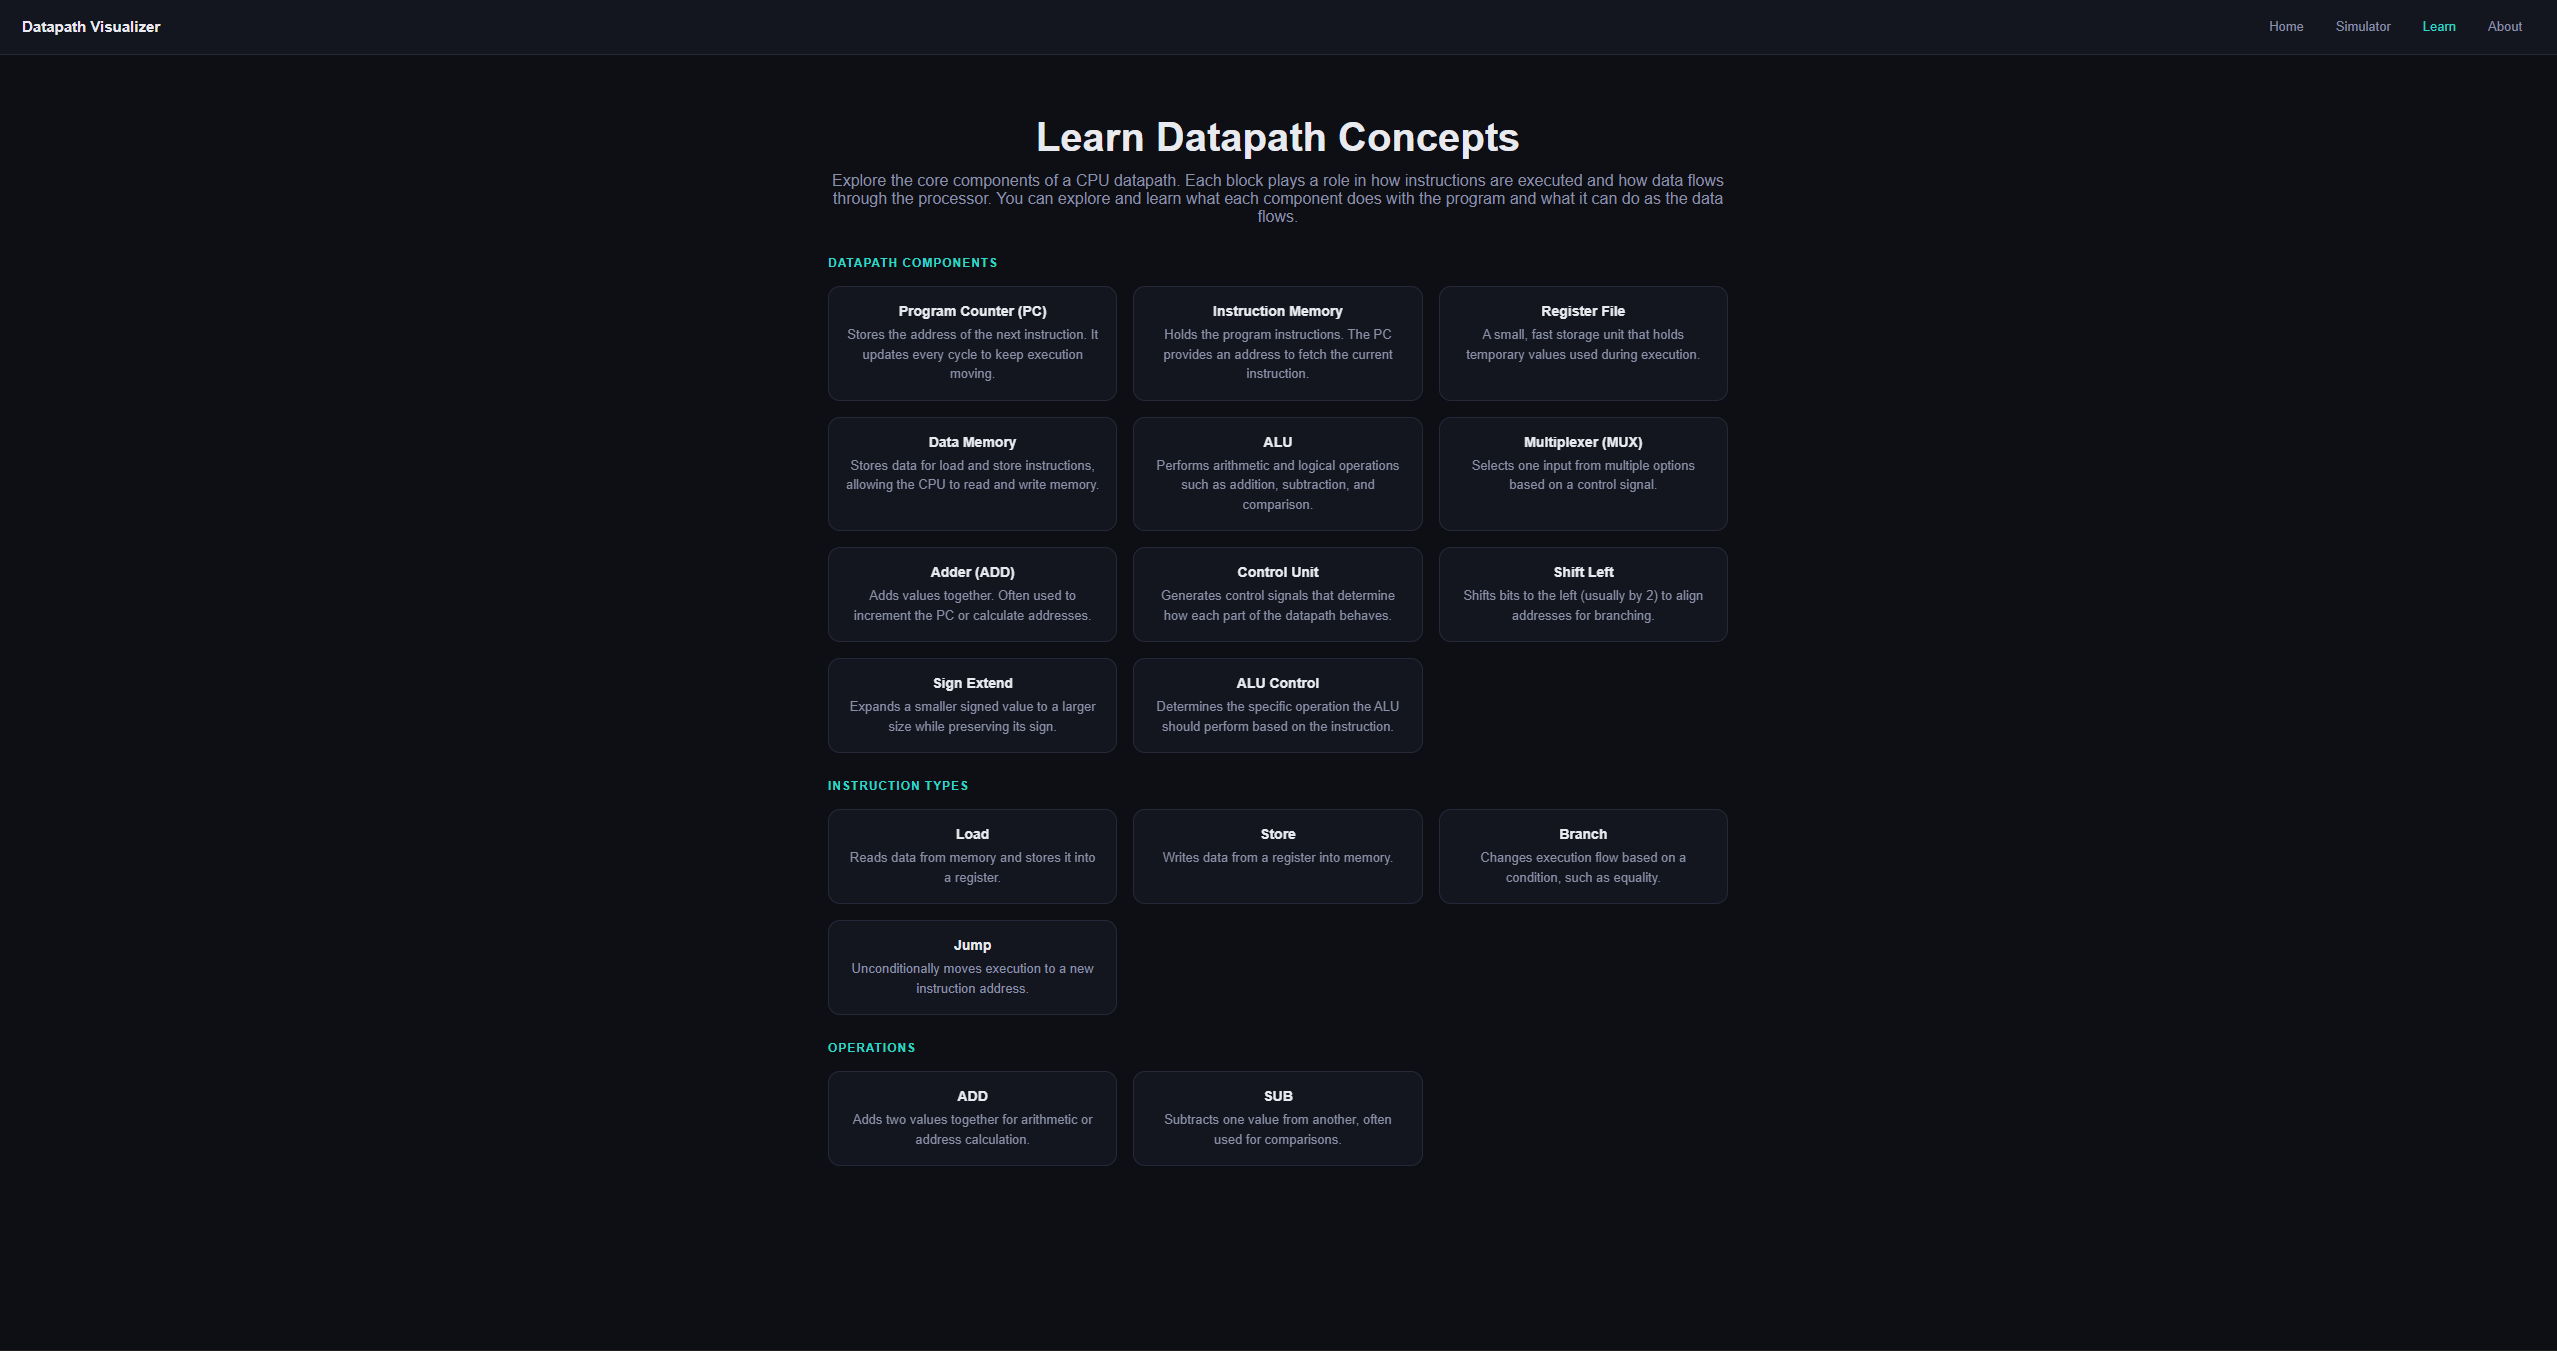
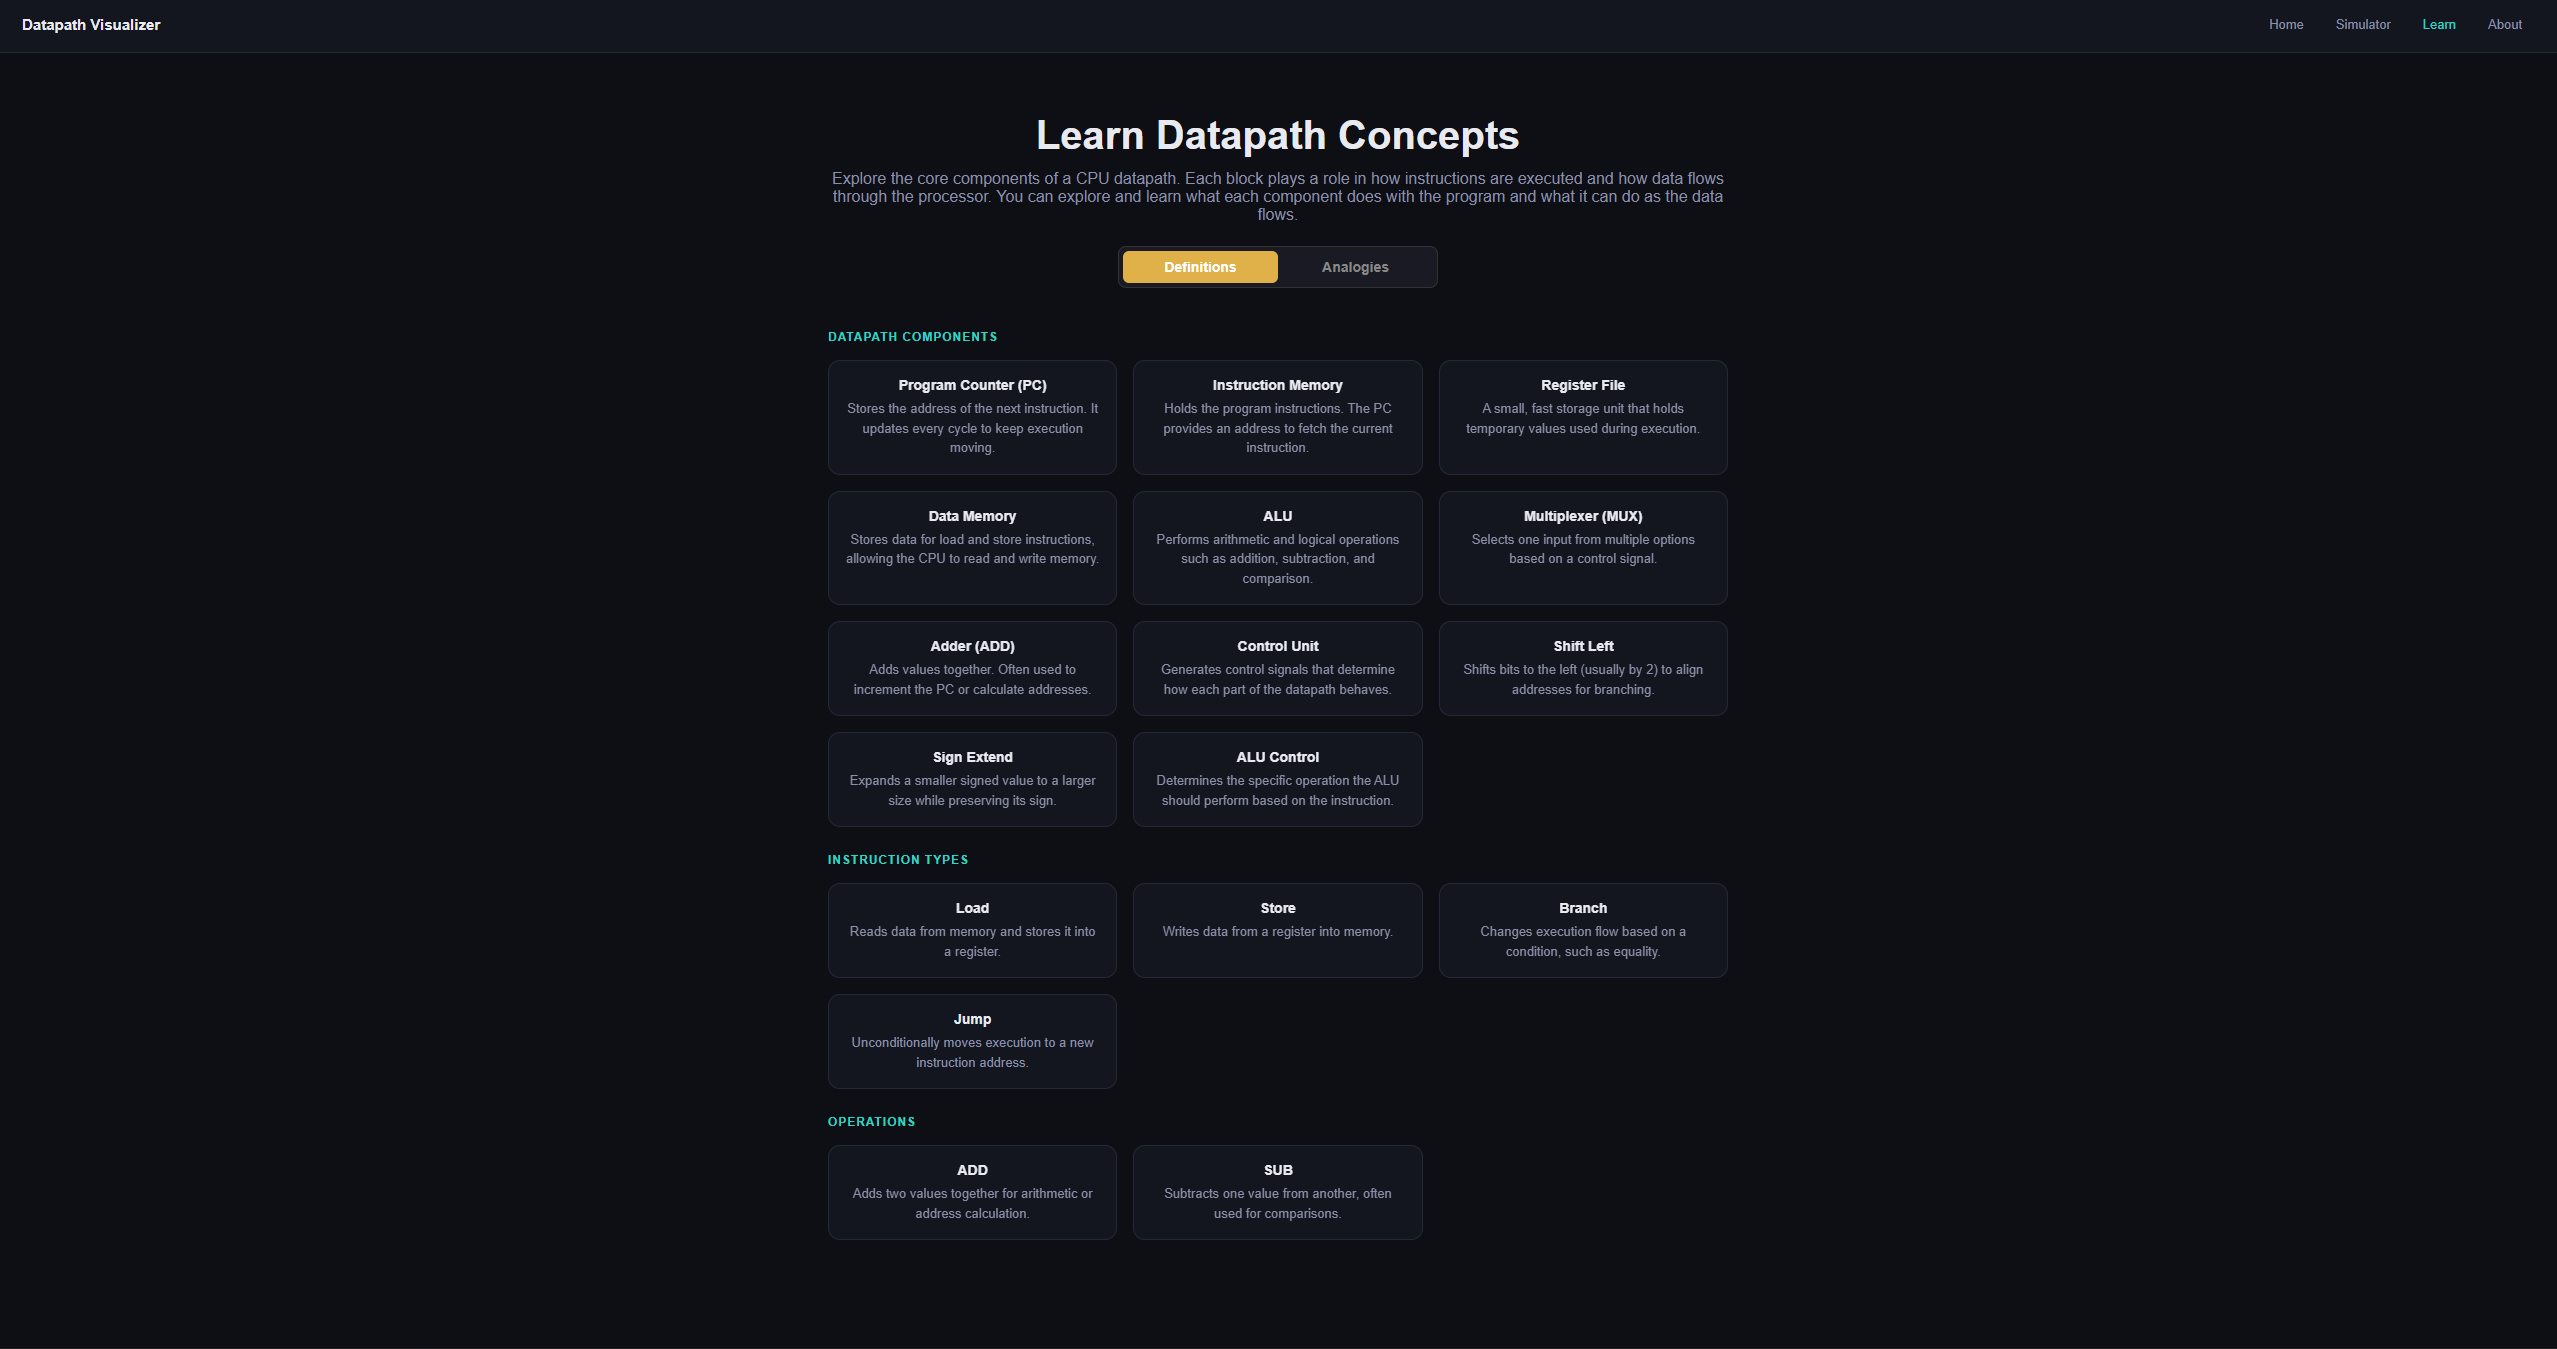
Edited README.md to include new Analogy mode

diff --git a/README.md b/README.md
@@ -22,17 +22,35 @@ An interactive web application designed to help students understand how CPU data
   <img src="pictures/home-page-preview.png" width="700"/>
 </p>
 
+- Abstract datapath animation on page load 
+- Navigation to all main sections  
+
 ### Learn Page
 
 <p align="center">
   <img src="pictures/learn-page-preview.png" width="700"/>
 </p>
 
+- Reference cards for datapath components and instructions  
+- Has toggle to switch to a more understandable Analogy Mode
+
+### Analogy Mode
+
+<p align="center">
+  <img src="pictures/analogy-mode-preview.png" width="700"/>
+</p>
+
+- Real-world analogies to explain datapath concepts  
+- Helps bridge conceptual understanding with technical execution  
+
 ### About Page
 
 <p align="center">
   <img src="pictures/about-page-preview.png" width="700"/>
 </p>
+
+- Project overview and educational goals  
+- Team member information  
 
 ---
 
@@ -220,3 +238,4 @@ pictures/
   about-page-preview.png
   learn-mode-preview.png
   quiz-mode-preview.png
+  analogy-mode-preview.png